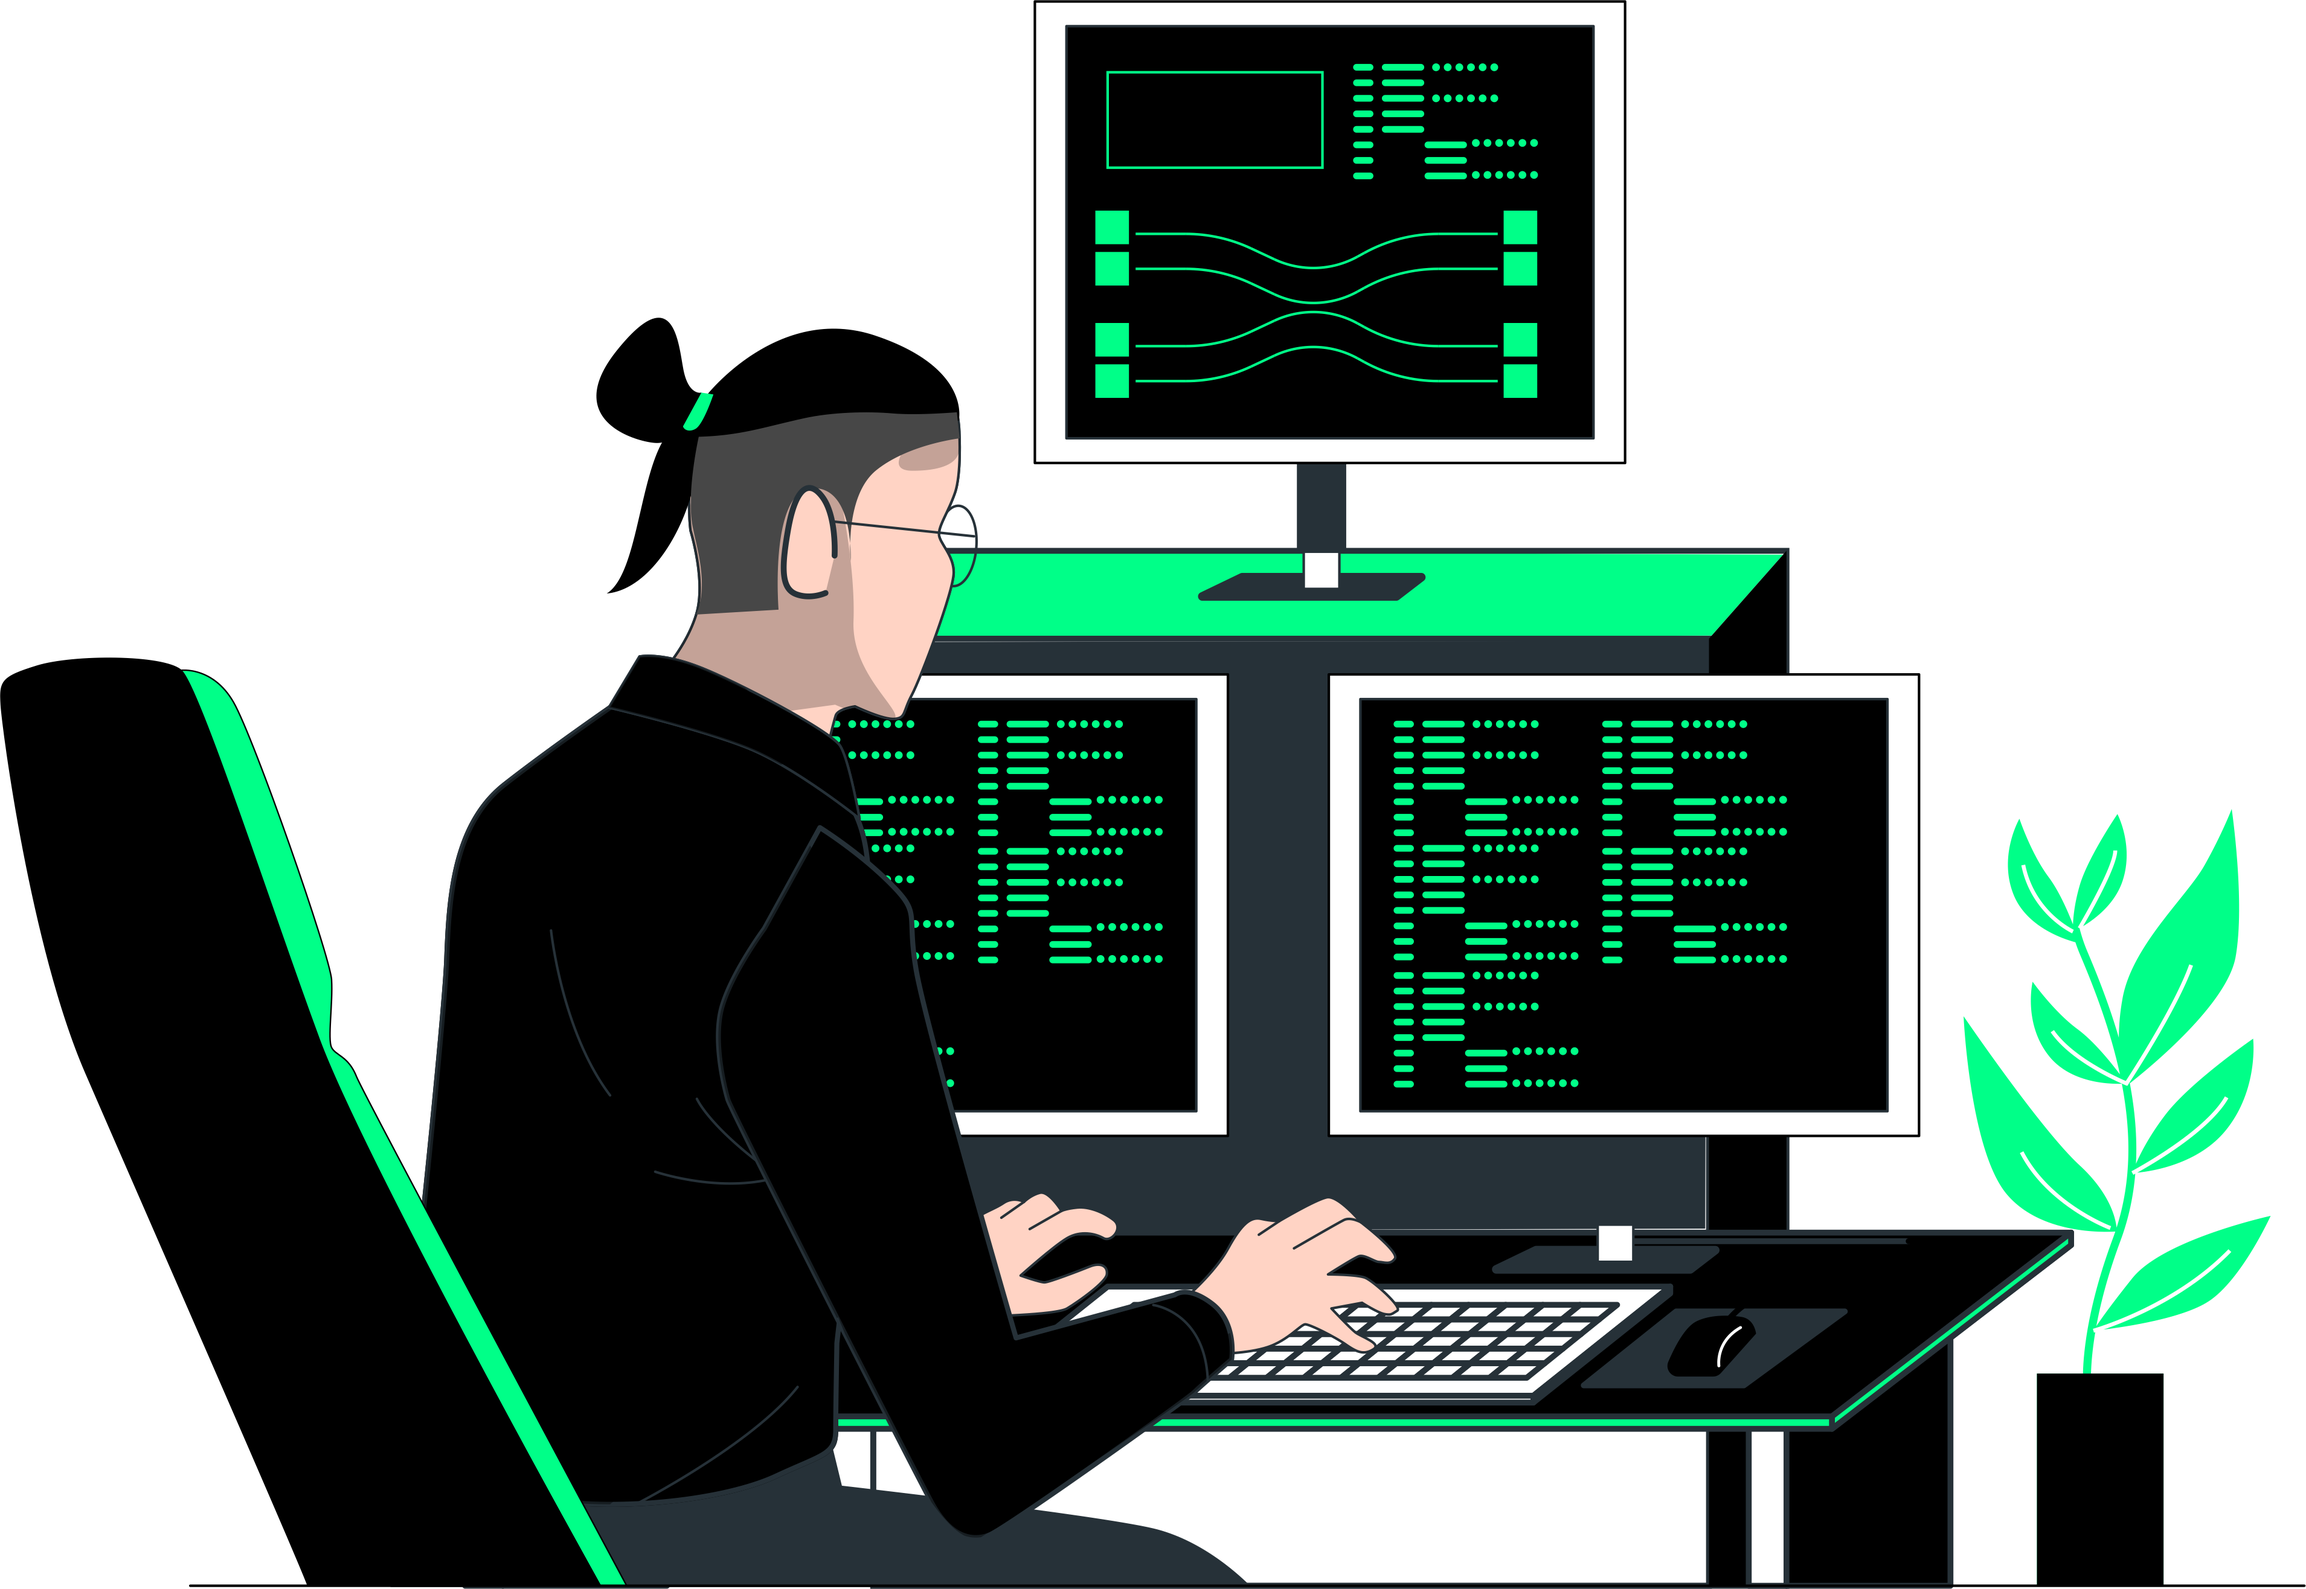
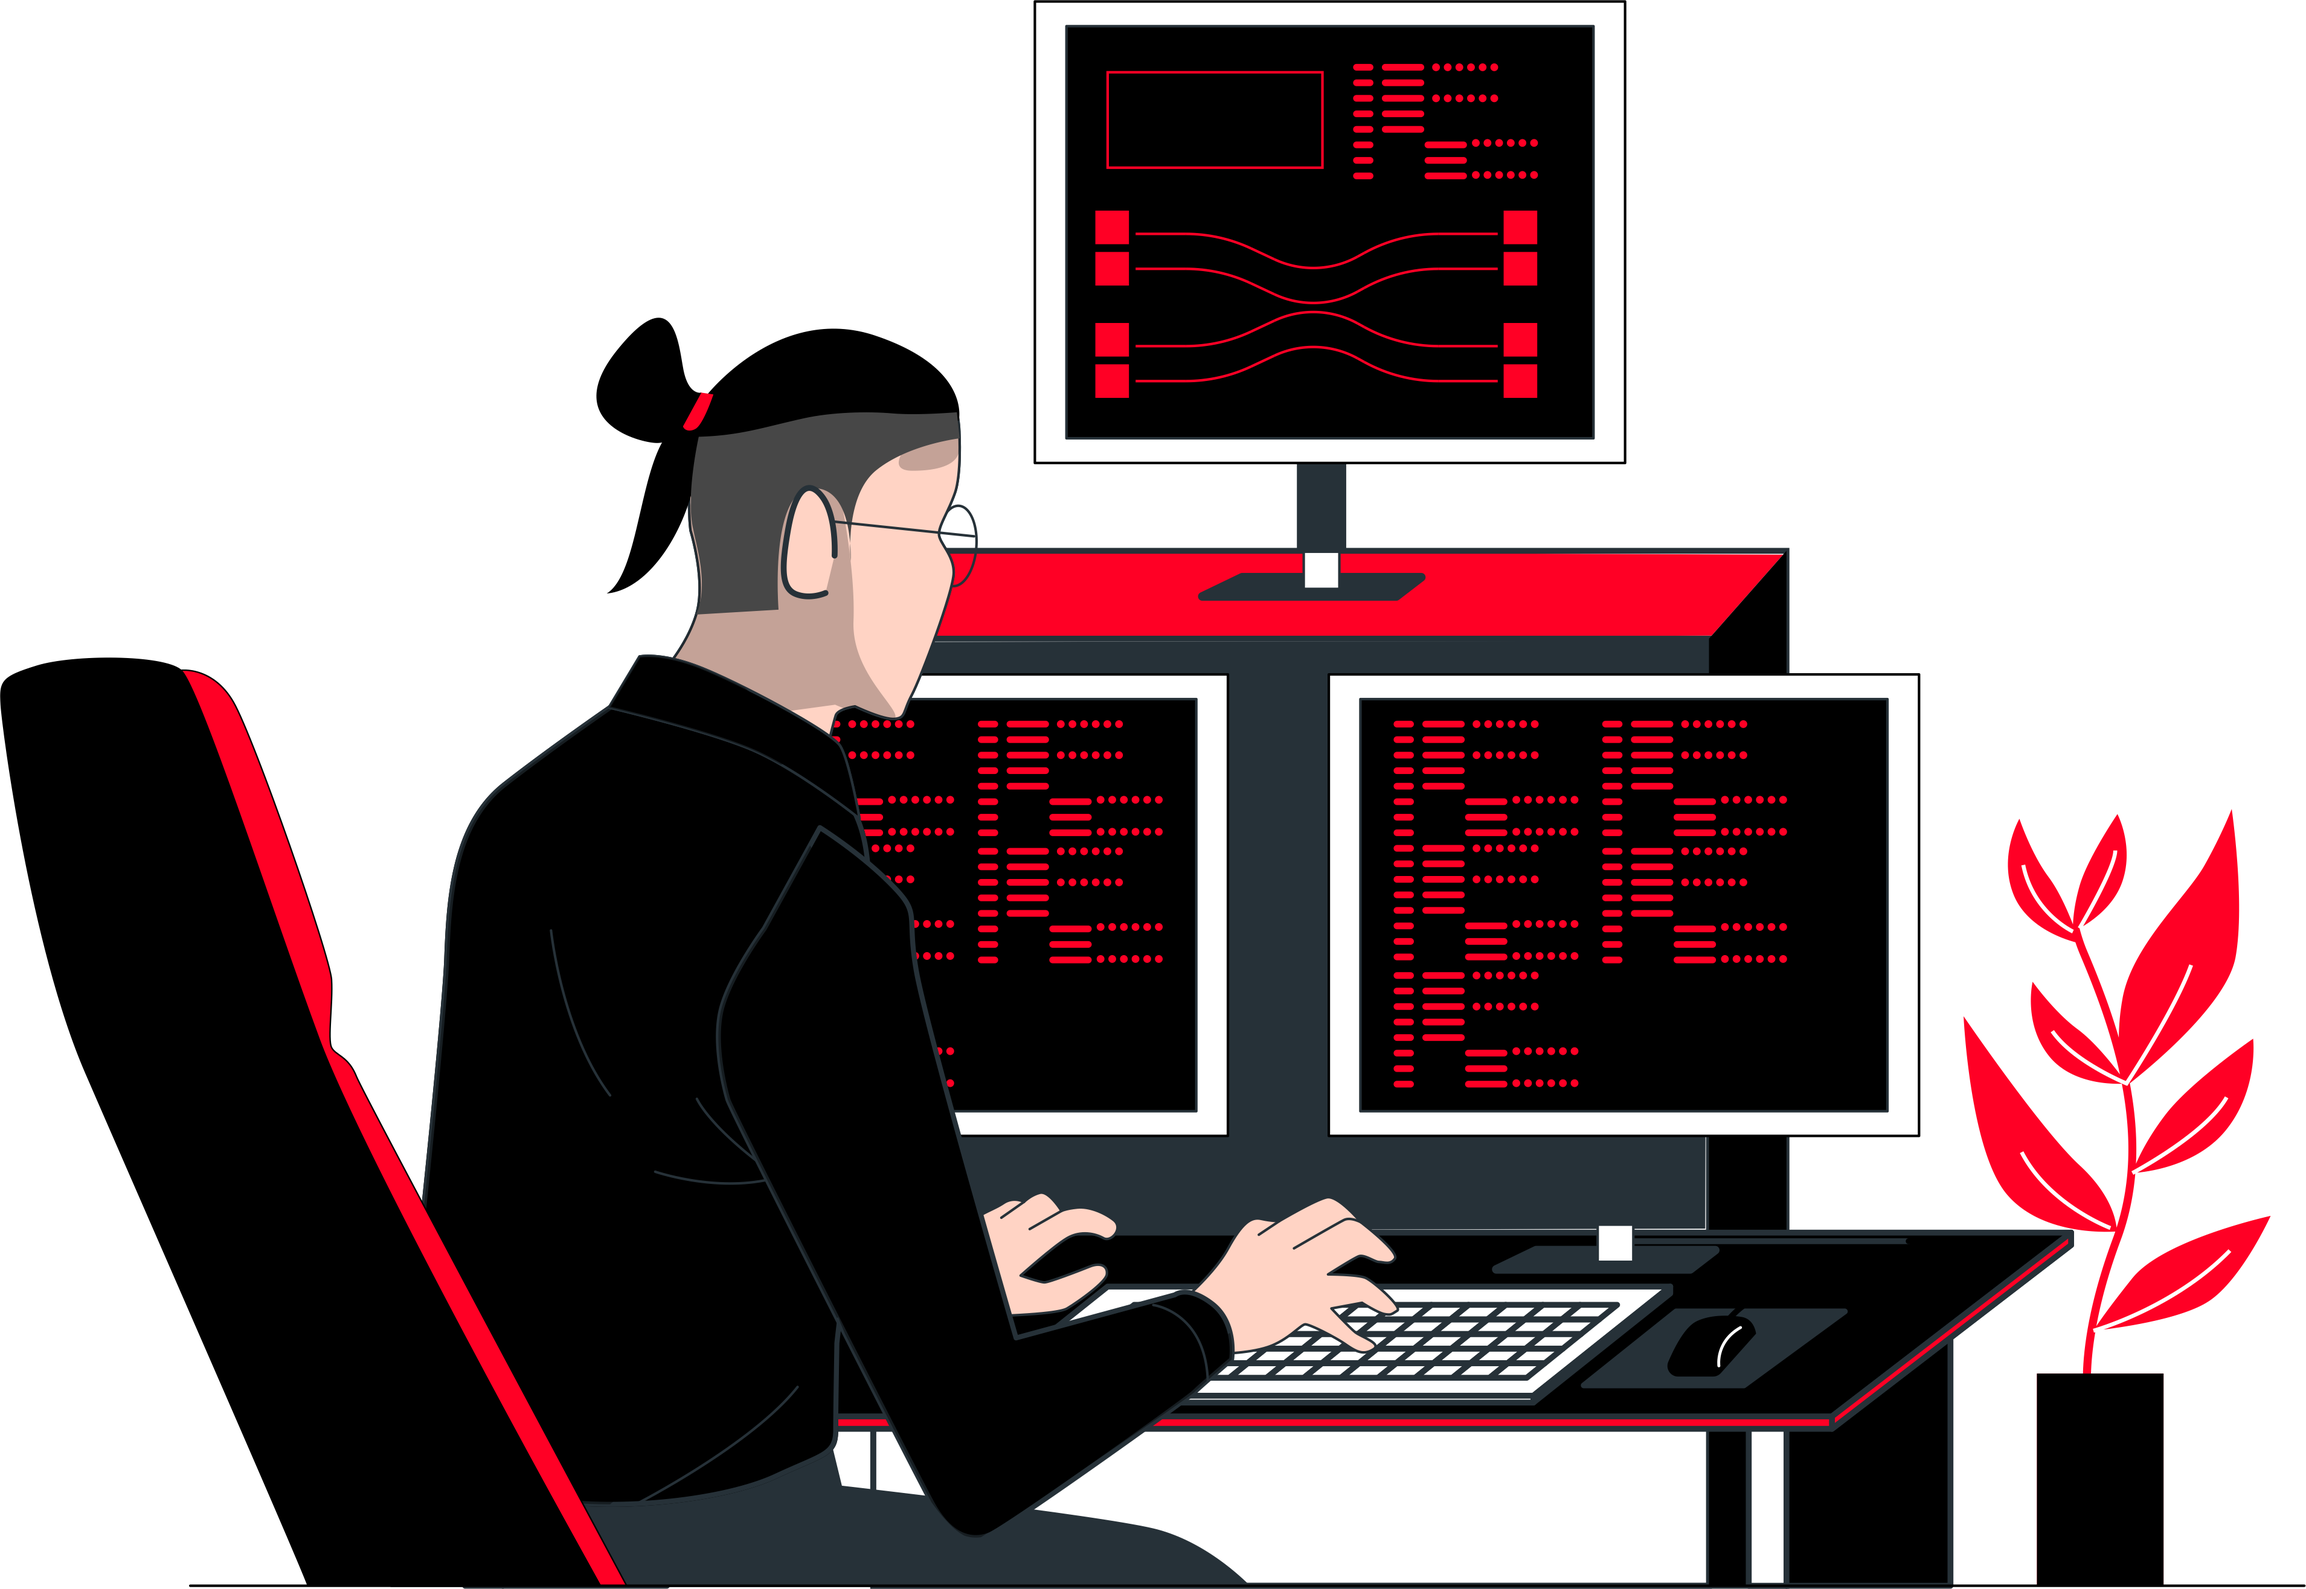
changing colors

diff --git a/css/media.css b/css/media.css
@@ -1,12 +1,12 @@
 :root {
-  --bg-primary-color: hsl(235, 65%, 13%);
-  --bg-secondary-color: hsl(235, 45%, 25%);
-  --bg-transition-color: hsl(258, 56%, 20%);
+  --bg-primary-color: hsl(0, 0%, 5%);
+  --bg-secondary-color: hsl(0, 0%, 15%);
 
   --headline: hsl(220, 6%, 91%);
   --paragraph: hsl(210, 4%, 60%);
-  --main-paragraph: hsl(220,100%,100%);
-  --brand-light: hsl(152, 100%, 50%);
+  --main-paragraph: hsl(220, 100%, 100%);
+  
+  --brand-light: hsl(351, 100%, 50%);
   --brand-light-alternation: hsl(0,100%,50%);
 
   font-size: 62.5%; /*1rem == 10px */

diff --git a/css/style.css b/css/style.css
@@ -8,14 +8,14 @@
 }
 
 :root {
-  --bg-primary-color: hsl(235, 65%, 13%);
-  --bg-secondary-color: hsl(235, 45%, 25%);
-  --bg-transition-color: hsl(258, 56%, 20%);
+  --bg-primary-color: hsl(0, 0%, 5%);
+  --bg-secondary-color: hsl(0, 0%, 15%);
 
   --headline: hsl(220, 6%, 91%);
   --paragraph: hsl(210, 4%, 60%);
   --main-paragraph: hsl(220, 100%, 100%);
-  --brand-light: hsl(152, 100%, 50%);
+  
+  --brand-light: hsl(351, 100%, 50%);
   --brand-light-alternation: hsl(0, 100%, 50%);
 
   font-size: 62.5%; /*1rem == 10px */

diff --git a/index.html b/index.html
@@ -176,7 +176,7 @@
           </div>
     </section>
     <section id="portfolio">
-        <h2></h2>
+        <h2>PROJETOS</h2>
         <div id="projects">
           <div class="project">
             <div class="first_part">
